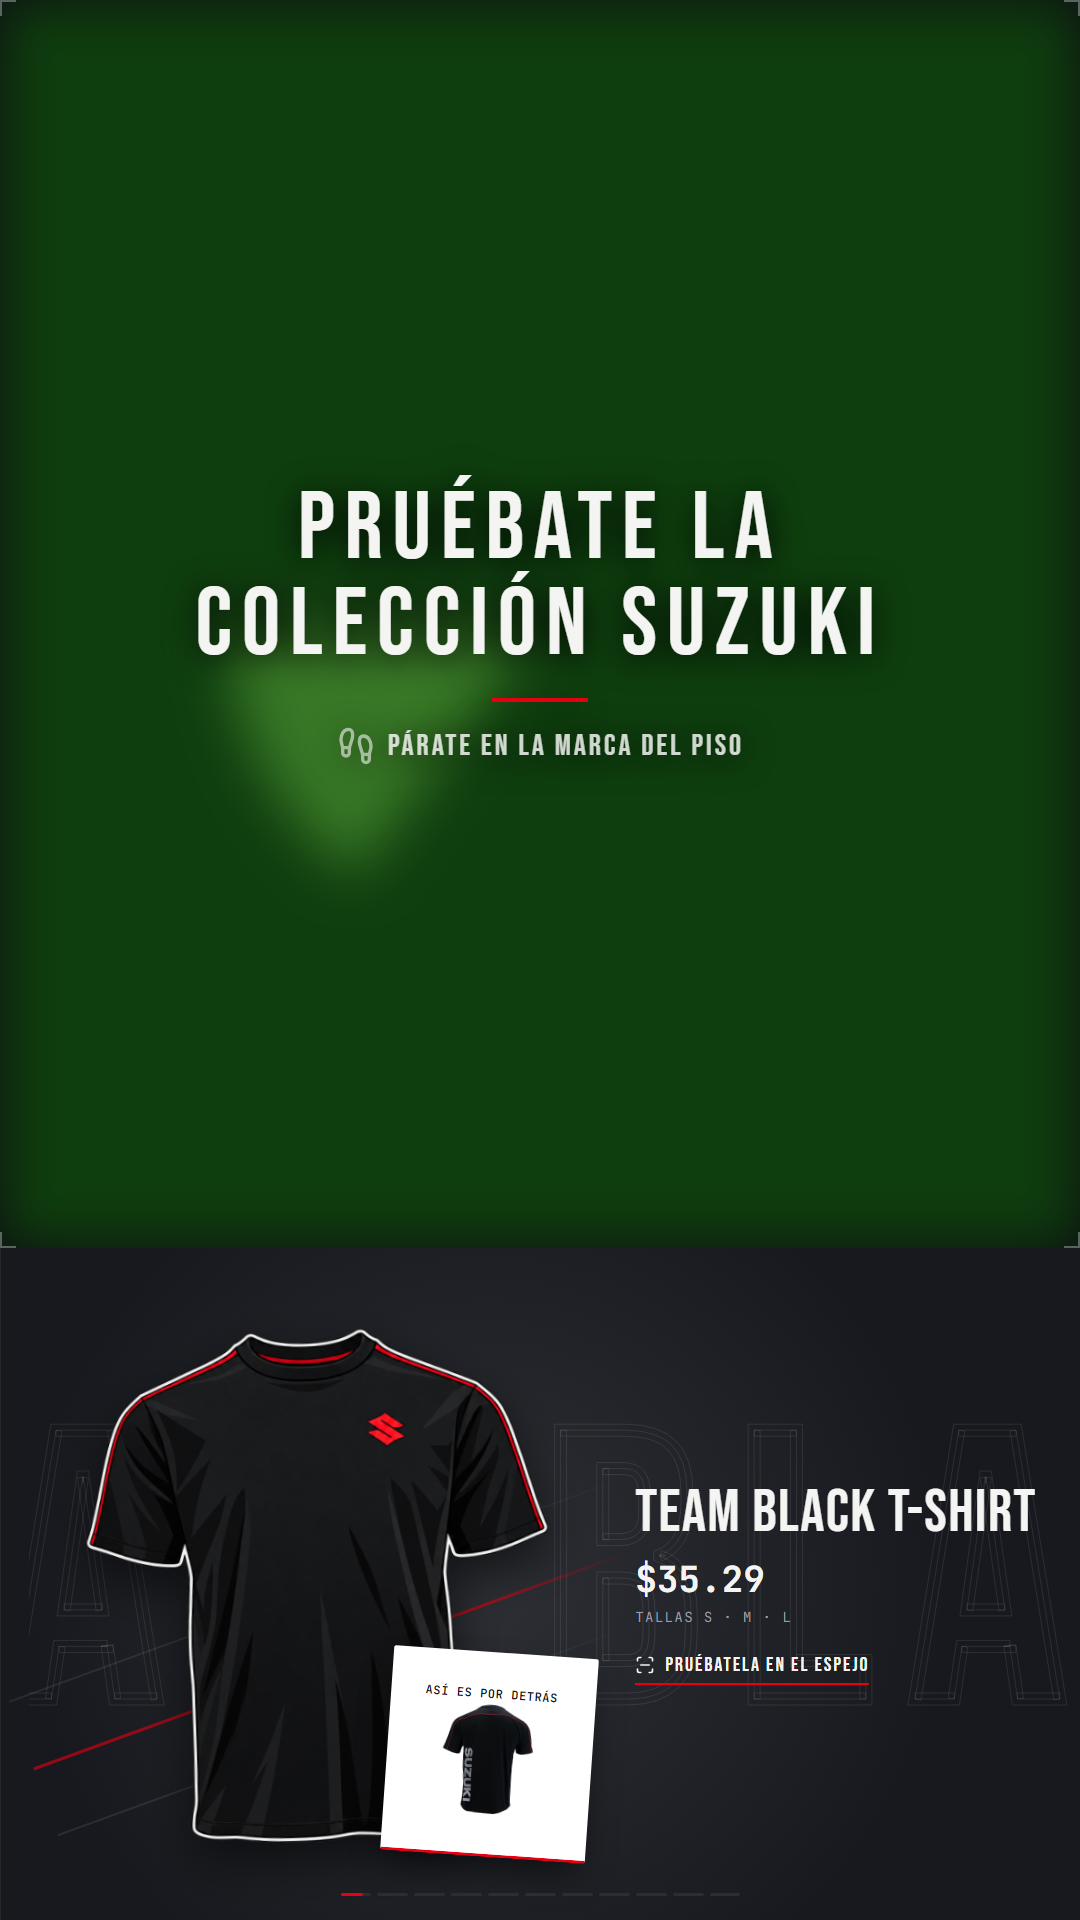
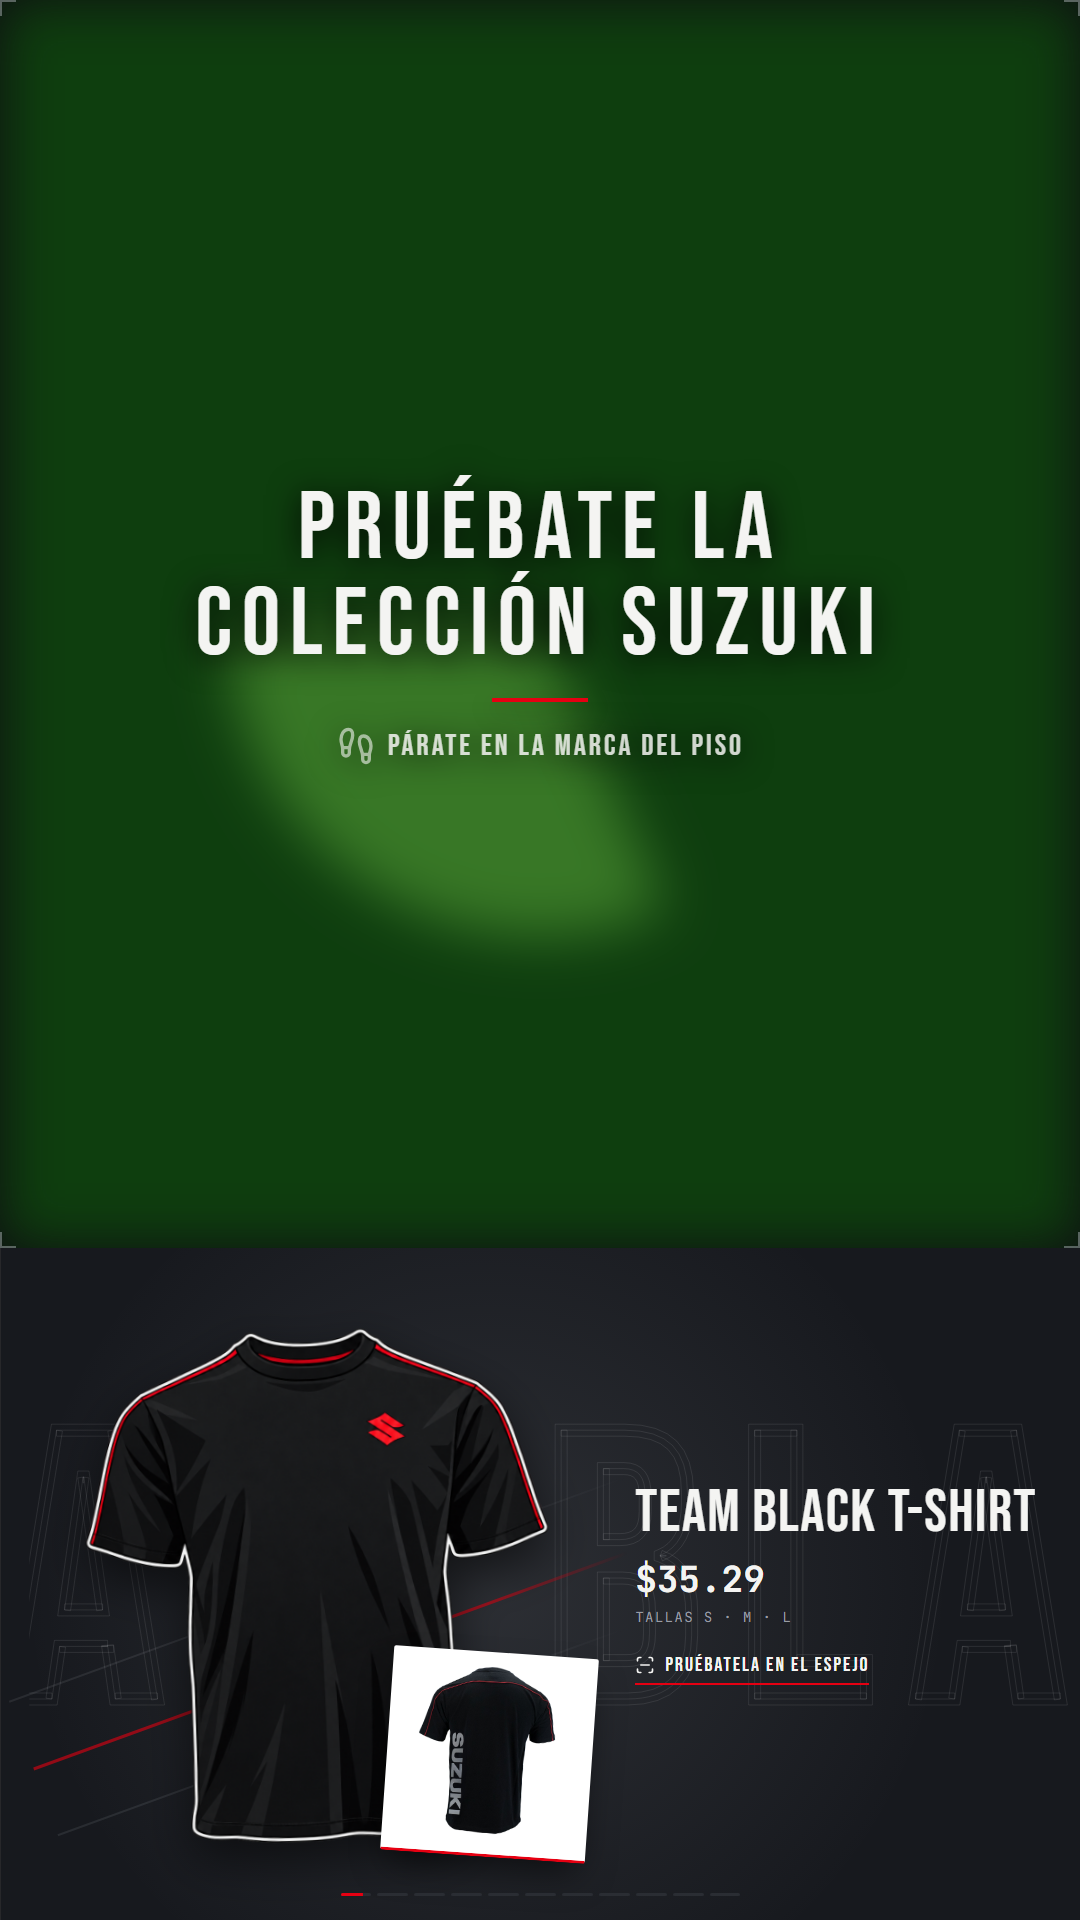
fix(attract): ampliar foto de vista posterior en vitrina y remover texto

Changed region(s): [[0.3361, 0.3438, 0.6111, 0.5], [0.3972, 0.8438, 0.5194, 0.9688]]

diff --git a/tests/unit/attract-showcase.test.tsx b/tests/unit/attract-showcase.test.tsx
@@ -181,7 +181,7 @@ describe('Attract Showcase & Impeccable Improvements', () => {
       });
     });
 
-    it('handles garments without illustration with illustrations [] and renders without "ASÍ ES POR DETRÁS"', () => {
+    it('handles garments without illustration with illustrations [] and renders without back view card', () => {
       const customGarment: Garment = {
         id: 'no-illust-1',
         sku: 'TEST-SKU-1',
@@ -205,8 +205,8 @@ describe('Attract Showcase & Impeccable Improvements', () => {
       render(<AttractPanel />);
 
       expect(screen.getByText('Prenda Sin Ilustración')).toBeTruthy();
-      // Should NOT render the small "ASÍ ES POR DETRÁS" card badge
-      expect(screen.queryByText('ASÍ ES POR DETRÁS')).toBeNull();
+      // Should NOT render the back view card
+      expect(screen.queryByTestId('showcase-back-card')).toBeNull();
     });
 
     it('skips garments that have neither illustration NOR photo', () => {
@@ -259,7 +259,7 @@ describe('Attract Showcase & Impeccable Improvements', () => {
       });
     });
 
-    it('renders "ASÍ ES POR DETRÁS" card for 990F0-BKTM1 with correct image and alt text', () => {
+    it('renders back view card for 990F0-BKTM1 with correct image and alt text, without text', () => {
       const slides = buildShowcaseSlides(realCatalog as unknown as Garment[]);
       const bktm1Slide = slides.find(
         (s): s is Extract<ShowcaseSlide, { kind: 'garment' }> =>
@@ -268,7 +268,10 @@ describe('Attract Showcase & Impeccable Improvements', () => {
       expect(bktm1Slide).toBeDefined();
 
       const { container } = render(<ShowcaseSlideComponent slide={bktm1Slide!} />);
-      expect(screen.getByText('ASÍ ES POR DETRÁS')).toBeTruthy();
+      const card = screen.getByTestId('showcase-back-card');
+      expect(card).toBeTruthy();
+      // El texto fue eliminado para ampliar la imagen
+      expect(screen.queryByText('ASÍ ES POR DETRÁS')).toBeNull();
 
       const backImg = container.querySelector(
         'img[src*="990F0-BKTM1.back.thumb.png"]',
@@ -291,7 +294,7 @@ describe('Attract Showcase & Impeccable Improvements', () => {
       );
       expect(bkbw5Slide).toBeDefined();
       const { unmount } = render(<ShowcaseSlideComponent slide={bkbw5Slide!} />);
-      expect(screen.queryByText('ASÍ ES POR DETRÁS')).toBeNull();
+      expect(screen.queryByTestId('showcase-back-card')).toBeNull();
       unmount();
 
       // 990F0-BKQJ5 (2 variants)
@@ -303,13 +306,13 @@ describe('Attract Showcase & Impeccable Improvements', () => {
       const { unmount: unmount2 } = render(
         <ShowcaseSlideComponent slide={bkqj5Slide!} />,
       );
-      expect(screen.queryByText('ASÍ ES POR DETRÁS')).toBeNull();
+      expect(screen.queryByTestId('showcase-back-card')).toBeNull();
 
       // Cycle to second variant (after 1600ms)
       act(() => {
         vi.advanceTimersByTime(1600);
       });
-      expect(screen.queryByText('ASÍ ES POR DETRÁS')).toBeNull();
+      expect(screen.queryByTestId('showcase-back-card')).toBeNull();
       unmount2();
     });
   });

diff --git a/src/components/kiosk/showcase/ShowcaseSlide.tsx b/src/components/kiosk/showcase/ShowcaseSlide.tsx
@@ -231,7 +231,8 @@ export function ShowcaseSlide({ slide }: ShowcaseSlideProps) {
                 {/* Layer E: Real Photo Card Superimposed on bottom-right (Back View) */}
                 {currentPhoto?.back && (
                   <motion.div
-                    className="absolute bottom-[2%] right-[2%] w-[36%] aspect-square bg-white rounded-sm p-[6%] shadow-[0_18px_36px_-10px_rgba(0,0,0,0.6)] border-b-[3px] border-b-brand-red flex flex-col justify-between z-20 pointer-events-none"
+                    data-testid="showcase-back-card"
+                    className="absolute bottom-[2%] right-[2%] w-[36%] aspect-square bg-white rounded-sm p-[2%] shadow-[0_18px_36px_-10px_rgba(0,0,0,0.6)] border-b-[3px] border-b-brand-red flex items-center justify-center z-20 pointer-events-none"
                     initial={
                       shouldReduceMotion
                         ? { opacity: 0 }
@@ -252,10 +253,7 @@ export function ShowcaseSlide({ slide }: ShowcaseSlideProps) {
                           }
                     }
                   >
-                    <span className="font-mono text-[10px] sm:text-xs font-bold tracking-wider text-[#17191E] uppercase select-none">
-                      {t('kiosk.attract.showcase.backView', 'ASÍ ES POR DETRÁS')}
-                    </span>
-                    <div className="flex-1 w-full flex items-center justify-center overflow-hidden min-h-0 relative">
+                    <div className="w-full h-full flex items-center justify-center overflow-hidden relative">
                       <AnimatePresence mode="wait">
                         <motion.img
                           key={currentPhoto.back}

diff --git a/scripts/capture_vitrina_vista_posterior.ts b/scripts/capture_vitrina_vista_posterior.ts
@@ -51,7 +51,7 @@ async function main() {
     await page1.goto('http://localhost:4173/?layout=portrait');
     await page1.waitForSelector('text=Team Black T-Shirt', { timeout: 15000 });
     // Esperar a que la tarjeta de espalda monte y anime (delay 0.55s)
-    await page1.waitForSelector('text=ASÍ ES POR DETRÁS', { timeout: 10000 });
+    await page1.waitForSelector('[data-testid="showcase-back-card"]', { timeout: 10000 });
     await page1.waitForTimeout(2000);
     const path1 = path.join(OUT_DIR, '1_bktm1_tarjeta_espalda.png');
     await page1.screenshot({ path: path1 });
